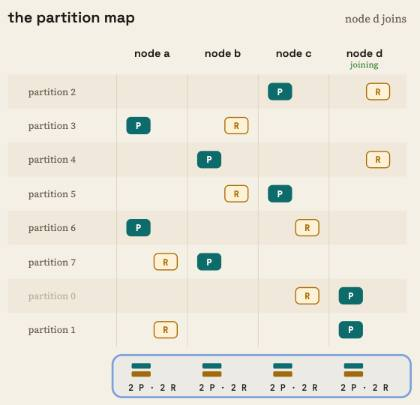
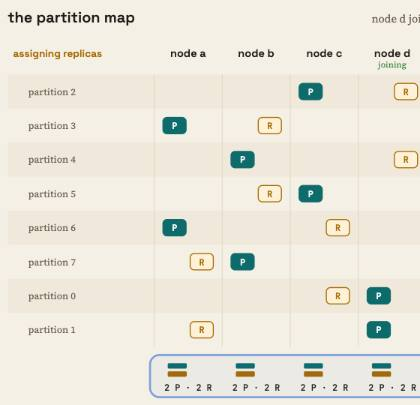
blance 01-planning: a step for each change of gears; sublabels as in the panel
- Each pass starts with a frame of its own where the board's corner
  says which state is up ("assigning primaries", then "assigning
  replicas"), and each plan gets a step there with a callout to it.
- The sort's sublabels start where the partitions' names do, in the
  panel's monospace, as "2: if not yet on a joining node"; the names
  column is wider to fit them (node columns 100, from 104). The panel's
  lines take the colon too; the panel is wider than the board and its
  top meets the board's bottom.

diff --git a/topics/blance/01-planning/diagram-sort.js b/topics/blance/01-planning/diagram-sort.js
@@ -26,9 +26,9 @@ export class SortPart {
     P.lines = Object.keys(SORT_RULES).map((grp, i) => {
       const ly = y + 104 + (i + 1) * dy;
       const lg = el('g', { class: `sort-line bsort-g${grp}` }, P.g);
-      txt(lg, x + 64, ly, `${+grp + 1} if`, 'sort-num');
-      txt(lg, x + 114, ly, SORT_RULES[grp], 'sort-rule');
-      return { g: lg, which: txt(lg, x + 420, ly, '', 'sort-which') };
+      txt(lg, x + 64, ly, `${+grp + 1}:`, 'sort-num');
+      txt(lg, x + 100, ly, `if ${SORT_RULES[grp]}`, 'sort-rule');
+      return { g: lg, which: txt(lg, x + 440, ly, '', 'sort-which') };
     });
     txt(P.g, x + 64, y + 104 + 4 * dy + 12, 'then heavier partitions first,', 'sort-code');
     txt(P.g, x + 64, y + 104 + 5 * dy + 12, 'then by partition name', 'sort-code');
@@ -50,7 +50,7 @@ export class SortPart {
         op(l.g, counts[i] ? 1 : 0.4);
       });
     }
-    P.box.setAttribute('width', (this.boardW || BOARD.x1 - BOARD.x0 + 10).toFixed(1));
+    P.box.setAttribute('width', ((this.boardW || BOARD.x1 - BOARD.x0 + 10) + SORT_PANEL.wider).toFixed(1));
     P.g.setAttribute('transform', `translate(0 ${((1 - po) * 10).toFixed(1)})`);
     op(P.g, po);
     // (and while it's up, what's under it goes: the tallies, and the
@@ -65,8 +65,7 @@ export class SortPart {
       const t = this.rowLabels[p].tag;
       if (pass) {
         const grp = pass.groups[p];
-        setText(t.num, String(+grp + 1));
-        setText(t.text, SORT_RULES[grp]);
+        setText(t.text, `${+grp + 1}: if ${SORT_RULES[grp]}`);
         t.g.setAttribute('class', `bsort-g${grp}`);
       }
       let u = lerp(on(FA, GROUPS), on(FB, GROUPS), eq);

diff --git a/topics/blance/01-planning/layout.js b/topics/blance/01-planning/layout.js
@@ -18,7 +18,8 @@ export const CANVAS = [0, 0, 780, 960];
 
 // ---- the board ----
 
-export const BOARD = { x0: 40, labelX: 70, y0: 112, rowH: 50, colW: 104, col0: 200 };
+// (the rows' names column is wide enough for a sort's sublabels)
+export const BOARD = { x0: 40, labelX: 70, y0: 112, rowH: 50, colW: 100, col0: 255 };
 BOARD.y1 = BOARD.y0 + PARTITIONS.length * BOARD.rowH;
 BOARD.x1 = BOARD.col0 + NODES.length * BOARD.colW;
 // Each node's column slot, from the left: its place in NODES, unless a
@@ -52,7 +53,7 @@ export const scoreY = (v) => STRIP.zeroY - v * STRIP.unit;
 
 // a pass's sort's rules: over everything under the board, tallies and
 // all
-export const SORT_PANEL = { x: BOARD.x0, y: BOARD.y1 + 12, h: CANVAS[3] - BOARD.y1 - 30 };
+export const SORT_PANEL = { x: BOARD.x0 - 16, y: BOARD.y1 + 2, h: CANVAS[3] - BOARD.y1 - 20, wider: 32 };
 
 // ---- the panel ----
 
@@ -83,6 +84,8 @@ export const ANCHORS = {
   'scores': { p: [BOARD.x0, STRIP.titleY - 6], needs: [] },
   'moves.total': { p: [BOARD.x0, STRIP.titleY + 20], needs: [] },
   'tree': { p: [BOARD.x0, STRIP.titleY - 6], needs: [] },
+  // the plan's phase, in the board's corner
+  'phase': { p: [BOARD.labelX - 28, HEAD_Y - 5], needs: [] },
   'sort.rules': { p: [SORT_PANEL.x + 8, SORT_PANEL.y + 96], needs: [] },
 };
 

diff --git a/topics/blance/01-planning/scenarios.js b/topics/blance/01-planning/scenarios.js
@@ -66,8 +66,10 @@ function seqOf(t) {
 // state, each partition's group in its sort, and what the groups
 // mean)}; and after each state's last decision, "fresh.primaries", the
 // pass done (no decision in hand, nothing left over from the last one).
-// Each pass begins by sorting the partitions, in four frames (each its
-// `sort`): "fresh.replicas~rules", the sort's rules shown;
+// Each pass begins with "fresh.replicas~phase", the board's corner
+// saying which state's pass it is; then it sorts the partitions, in
+// four frames (each its `sort`): "fresh.replicas~rules", the sort's
+// rules shown;
 // "fresh.replicas~keys", each row's group shown under its name;
 // "fresh.replicas~sorted", the rows in the pass's order; and
 // "fresh.replicas~clear", the rules and the groups gone. Once the plan
@@ -92,6 +94,7 @@ function scenario(id, title, { prev, nodesAll, remove = [], add = [], opts = {},
       // order, and the rules and groups put away
       pass = { state: t.state, groups: t.groups, labels };
       const sortFrame = (sort) => push({ key: `${id}.${PLURAL[t.state]}~${sort}`, board, decision: null, k, sort });
+      sortFrame('phase');
       sortFrame('rules');
       sortFrame('keys');
       order = t.order;

diff --git a/topics/blance/01-planning/diagram-board.js b/topics/blance/01-planning/diagram-board.js
@@ -41,7 +41,7 @@ export class BoardPart {
       txt(lg, BOARD.labelX, 5, `partition ${p}`, 'brow-label');
       // (its group in a sort: diagram-sort.js shows it)
       const tg = el('g', { opacity: 0 }, lg);
-      const tag = { g: tg, num: txt(tg, BOARD.labelX - 16, 19, '', 'bsort-num'), text: txt(tg, BOARD.labelX, 19, '', 'bsort-tag') };
+      const tag = { g: tg, text: txt(tg, BOARD.labelX, 20, '', 'bsort-tag') };
       this.rowLabels[p] = { g: lg, tag };
     }
     // the board, apart from the area under it

diff --git a/topics/blance/01-planning/style.css b/topics/blance/01-planning/style.css
@@ -12,8 +12,7 @@
 /* a pass's sort: its rules, in a panel, and each row's group, numbered
    as the rules are (1, on a leaving node; 2, not on a joining node; 3,
    the rest) */
-.diagram .bsort-tag { font: 600 10px var(--font-body); }
-.diagram .bsort-num { font: 700 10px var(--font-mono); }
+.diagram .bsort-tag { font: 600 9.5px var(--font-mono); }
 .diagram .bsort-g0 { fill: var(--leave); }
 .diagram .bsort-g1 { fill: var(--join); }
 .diagram .bsort-g2 { fill: var(--muted); }

diff --git a/topics/blance/01-planning/main.js b/topics/blance/01-planning/main.js
@@ -22,7 +22,7 @@ import { Diagram } from './diagram.js';
 function weightOf(f) {
   // (a pass's sort, taken slowly: its rules, the groups row by row,
   // the rows sliding into order, and the rules put away)
-  if (f.sort) return { rules: 3, keys: 4, sorted: 5, clear: 2 }[f.sort];
+  if (f.sort) return { phase: 2, rules: 3, keys: 4, sorted: 5, clear: 2 }[f.sort];
   if (f.key.endsWith('.unsorted')) return 3;
   const d = f.decision;
   if (!d || f.stage === undefined) return 1;
